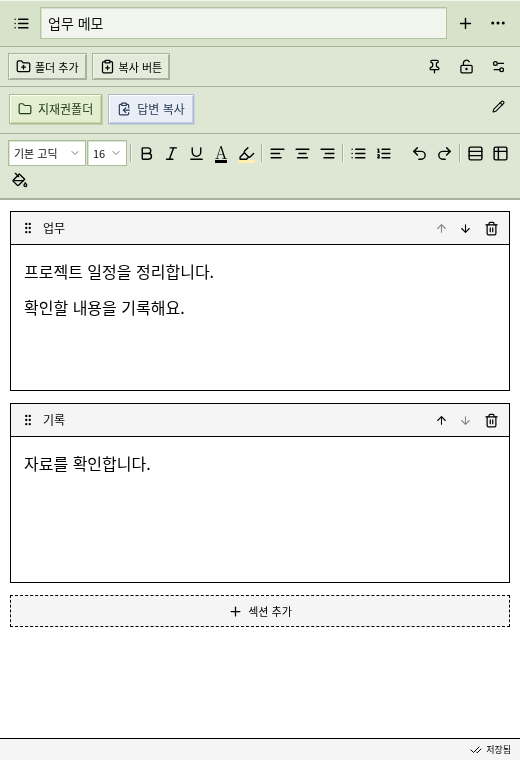
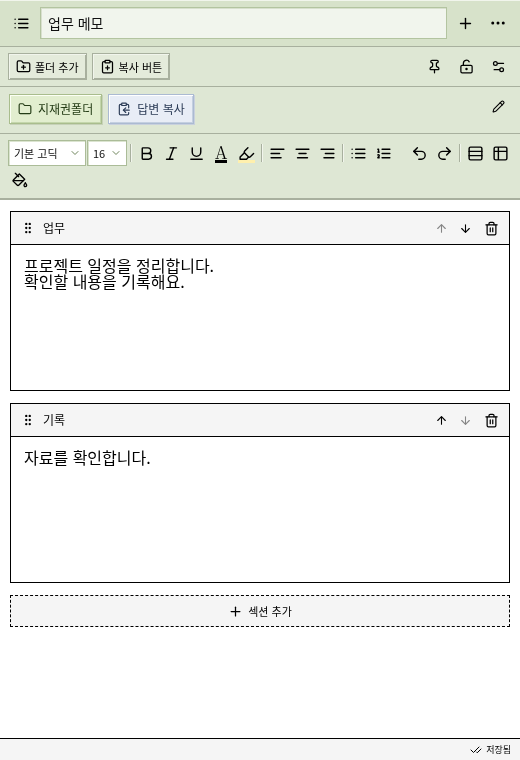
Default memo text to single line spacing and zero paragraph margins

Changed region(s): [[0.0308, 0.3329, 0.4, 0.4237], [0.0308, 0.575, 0.2769, 0.6355]]

diff --git a/tests/memo.spec.ts b/tests/memo.spec.ts
@@ -852,7 +852,7 @@ test("line spacing and paragraph margins apply to selected paragraphs and persis
   );
   await expect(body(page, "기록 내용").locator("p")).toHaveCSS(
     "line-height",
-    "28.8px",
+    "16px",
   );
   await expect(body(page, "기록 내용").locator("p")).toHaveCSS(
     "margin-bottom",
@@ -1047,4 +1047,43 @@ test("highlight colors apply and close immediately without a Done button", async
     "background-color",
     "rgb(255, 255, 0)",
   );
+});
+
+test("unformatted existing and newly typed paragraphs use single spacing with zero extra margins", async ({
+  page,
+}) => {
+  await open(page);
+  const previous = body(page).locator("p");
+  const before = await previous.evaluateAll((nodes) =>
+    nodes.map((node) => ({
+      top: node.getBoundingClientRect().top,
+      height: node.getBoundingClientRect().height,
+    })),
+  );
+  expect(before[1].top - before[0].top).toBeCloseTo(16, 1);
+  await body(page).fill("첫째");
+  await body(page).click();
+  await page.keyboard.press("ControlOrMeta+End");
+  await page.keyboard.press("Enter");
+  await page.keyboard.type("둘째");
+  await page
+    .getByRole("button", { name: "줄 간격과 문단 여백", exact: true })
+    .click();
+  await expect(
+    page.getByRole("combobox", { name: "줄 간격", exact: true }),
+  ).toHaveValue("1");
+  await expect(
+    page.getByRole("spinbutton", { name: "문단 위 여백", exact: true }),
+  ).toHaveValue("0");
+  await expect(
+    page.getByRole("spinbutton", { name: "문단 아래 여백", exact: true }),
+  ).toHaveValue("0");
+  await page.getByRole("button", { name: "취소", exact: true }).click();
+  await page.reload();
+  const after = await body(page)
+    .locator("p")
+    .evaluateAll((nodes) =>
+      nodes.map((node) => node.getBoundingClientRect().top),
+    );
+  expect(after[1] - after[0]).toBeCloseTo(16, 1);
 });

diff --git a/src/components/EditorExtras.tsx b/src/components/EditorExtras.tsx
@@ -6,9 +6,9 @@ export function EditorExtras({ editor }: { editor: Editor | null }) {
   const [dialog, setDialog] = useState<
     "spacing" | "insert" | "row" | "column" | "table" | null
   >(null);
-  const [height, setHeight] = useState("1.8");
+  const [height, setHeight] = useState("1");
   const [before, setBefore] = useState("0");
-  const [after, setAfter] = useState("7");
+  const [after, setAfter] = useState("0");
   const [rows, setRows] = useState("3");
   const [columns, setColumns] = useState("3");
   const [header, setHeader] = useState(true);
@@ -28,9 +28,9 @@ export function EditorExtras({ editor }: { editor: Editor | null }) {
     if (editor && !editor.isDestroyed) command(editor);
   };
   const showSpacing = () => {
-    setHeight(state?.attrs.lineHeight || "1.8");
+    setHeight(state?.attrs.lineHeight || "1");
     setBefore(String(parseFloat(state?.attrs.spaceBefore || "0")));
-    setAfter(String(parseFloat(state?.attrs.spaceAfter || "7")));
+    setAfter(String(parseFloat(state?.attrs.spaceAfter || "0")));
     setDialog("spacing");
   };
   return (

diff --git a/src/styles.css b/src/styles.css
@@ -435,7 +435,7 @@ svg {
 .tiptap {
   font-family: "Malgun Gothic", "Noto Sans CJK KR", sans-serif;
   font-size: 16px;
-  line-height: 1.8;
+  line-height: 1;
   color: #000;
   min-height: 145px;
   padding: 12px 13px 17px;
@@ -446,7 +446,7 @@ svg {
   outline: none;
 }
 .tiptap p {
-  margin: 0 0 7px;
+  margin: 0;
 }
 .tiptap p:last-child {
   margin-bottom: 0;
@@ -463,8 +463,8 @@ svg {
 .tiptap h1,
 .tiptap h2,
 .tiptap h3 {
-  line-height: 1.4;
-  margin: 10px 0;
+  line-height: 1;
+  margin: 0;
 }
 .tiptap:has(> p:only-child > br.ProseMirror-trailingBreak)::before {
   content: attr(data-placeholder);

diff --git a/src/components/ParagraphSpacing.ts b/src/components/ParagraphSpacing.ts
@@ -9,7 +9,9 @@ export const ParagraphSpacing = Extension.create({
           lineHeight: {
             default: null,
             parseHTML: (el) =>
-              /^(1|1\.2|1\.5|1\.8|2|2\.5|3)$/.test(el.style.lineHeight)
+              ["1", "1.2", "1.5", "1.8", "2", "2.5", "3"].includes(
+                el.style.lineHeight,
+              )
                 ? el.style.lineHeight
                 : null,
             renderHTML: (attrs) =>

diff --git a/README.md b/README.md
@@ -1,4 +1,4 @@
-# MEMO 1.3.1
+# MEMO 1.3.2
 
 귀여운 도트 메모장 아이콘과 읽기 쉬운 기본 고딕 UI를 사용하는 Windows 메모장입니다. 기본은 검정 글씨·검정 테두리·흰 본문이며, 섹션 제목 영역·섹션 추가·저장 표시 등 옅은 배경은 회색입니다. 기기에 자동 저장됩니다. 직접 지정한 메모·버튼·상단 색상은 유지됩니다.
 
@@ -6,7 +6,7 @@
 
 ![좁은 창에서 줄바꿈되는 바로가기와 상단 색상](docs/wrapped-preview.png)
 
-**[Windows 1.3.1 ZIP 다운로드](https://github.com/leejiwon921215-star/MEMO/raw/refs/heads/downloads/MEMO-Windows-1.3.1.zip)**
+**[Windows 1.3.2 ZIP 다운로드](https://github.com/leejiwon921215-star/MEMO/raw/refs/heads/downloads/MEMO-Windows-1.3.2.zip)**
 
 ZIP을 모두 압축 해제하고, 기존 앱을 완전히 종료한 뒤 안의 새 실행 파일을 여세요. `%APPDATA%\MEMO`의 기존 메모와 폴더 연결, 창 고정 설정은 유지됩니다. 중요한 기록은 업데이트 전에 상단 메뉴 → ‘백업 저장’으로 보관할 수 있습니다. 이 빌드는 코드 서명이 없는 Windows 10/11 x64 개발 빌드입니다.
 
@@ -14,7 +14,7 @@ ZIP을 모두 압축 해제하고, 기존 앱을 완전히 종료한 뒤 안의 
 
 - **목록에서 삭제·정렬:** 상단 목록 아이콘을 누른 뒤 각 메모 오른쪽 휴지통 버튼으로 삭제합니다. 확인창에서 취소할 수 있습니다. 왼쪽 이동 손잡이를 끌거나 위·아래 버튼으로 메모 순서를 바꾸세요. 검색·즐겨찾기 화면에서도 표시된 항목을 기준으로 이동할 수 있습니다.
 - **섹션 정렬:** 섹션 왼쪽 손잡이를 잡아 다른 섹션 위아래로 끌거나 위·아래 화살표를 누릅니다. 내용과 순서는 자동 저장됩니다.
-- **줄 간격·여백:** 본문에 커서를 놓거나 문단을 선택한 뒤 서식 도구의 ‘줄 간격과 문단 여백’을 누르세요. 줄 간격 배율과 문단 위·아래 여백(px)을 지정합니다.
+- **줄 간격·여백:** 본문에 커서를 놓거나 문단을 선택한 뒤 서식 도구의 ‘줄 간격과 문단 여백’을 누르세요. 기본 줄 간격은 1배, 문단 위·아래 여백은 0px입니다. 줄 간격 배율과 문단 위·아래 여백(px)을 지정할 수 있고, 기존에 직접 설정한 간격은 유지합니다.
 - **최근 색·색상 즐겨찾기:** A(글씨색) 또는 형광펜 아이콘을 누르면 최근 사용 색이 나옵니다. 현재 색이나 최근 색 옆 별표를 눌러 즐겨찾기에 보관하세요. 형광색은 기본색·최근 색·즐겨찾기를 선택하면 즉시 적용되고 색상창이 닫힙니다. 직접 색을 고를 때도 완료 버튼을 따로 누르지 않습니다. 글씨색과 형광색은 따로 저장하며 종류별 즐겨찾기 32개, 최근 색 12개를 지원합니다.
 - **표:** 서식 도구의 표 아이콘 → 행·열 수 선택 → ‘표 넣기’. 표 안을 클릭하면 행 추가·열 추가·행 삭제·열 삭제·표 삭제 버튼이 나옵니다. 삭제 시 확인창이 나타나고 열 너비도 드래그로 조절할 수 있습니다.
 - **버튼 색상:** 바로가기 관리에서 버튼을 수정할 때 ‘버튼 배경색’을 고르세요. 본문에 넣은 폴더·복사 버튼은 오른쪽 클릭으로 수정할 수 있습니다. ‘버튼 기본색’으로 되돌릴 수 있습니다.
@@ -74,9 +74,9 @@ TLS와 패키지 무결성 검증을 유지합니다. 개발 서버는 환경을
 npm run package:portable
 ```
 
-`release/MEMO-Windows-1.3.1.exe`, 이를 담은 `release/MEMO-Windows-1.3.1.zip`, 각각의 SHA-256 파일을 생성합니다. SVG 원본으로 PNG·ICO 아이콘을 생성합니다. SDK 다운로드의 TLS와 고정 SHA-256을 검증한 뒤 공식 7zSD.sfx 모듈을 결합하고 전체 압축 무결성을 검사합니다. Windows 앱과 압축 해제 실행 파일 모두에 새 아이콘을 넣고, 아이콘 이외의 리소스(ASAR 무결성 포함)와 코드 섹션이 보존되는지 검사합니다. 새 빌드는 코드 서명이 없는 상태로 생성합니다. Linux에서도 Wine 없이 만들 수 있습니다.
+`release/MEMO-Windows-1.3.2.exe`, 이를 담은 `release/MEMO-Windows-1.3.2.zip`, 각각의 SHA-256 파일을 생성합니다. SVG 원본으로 PNG·ICO 아이콘을 생성합니다. SDK 다운로드의 TLS와 고정 SHA-256을 검증한 뒤 공식 7zSD.sfx 모듈을 결합하고 전체 압축 무결성을 검사합니다. Windows 앱과 압축 해제 실행 파일 모두에 새 아이콘을 넣고, 아이콘 이외의 리소스(ASAR 무결성 포함)와 코드 섹션이 보존되는지 검사합니다. 새 빌드는 코드 서명이 없는 상태로 생성합니다. Linux에서도 Wine 없이 만들 수 있습니다.
 
-ZIP 빌드는 `npm run package:win -- --x64`로 `release/MEMO-1.3.1-win-x64.zip`을 생성합니다. ZIP은 전부 압축 해제한 뒤 `MEMO.exe`를 실행합니다. NSIS 설치 프로그램은 `npm run package:win:installer -- --x64`로 만들며 Windows 또는 Wine이 필요합니다. 빌드 결과는 소스 브랜치에 포함하지 않습니다. `downloads` 브랜치에는 다운로드용 실행본을 별도로 게시합니다.
+ZIP 빌드는 `npm run package:win -- --x64`로 `release/MEMO-1.3.2-win-x64.zip`을 생성합니다. ZIP은 전부 압축 해제한 뒤 `MEMO.exe`를 실행합니다. NSIS 설치 프로그램은 `npm run package:win:installer -- --x64`로 만들며 Windows 또는 Wine이 필요합니다. 빌드 결과는 소스 브랜치에 포함하지 않습니다. `downloads` 브랜치에는 다운로드용 실행본을 별도로 게시합니다.
 
 ## 글꼴
 
